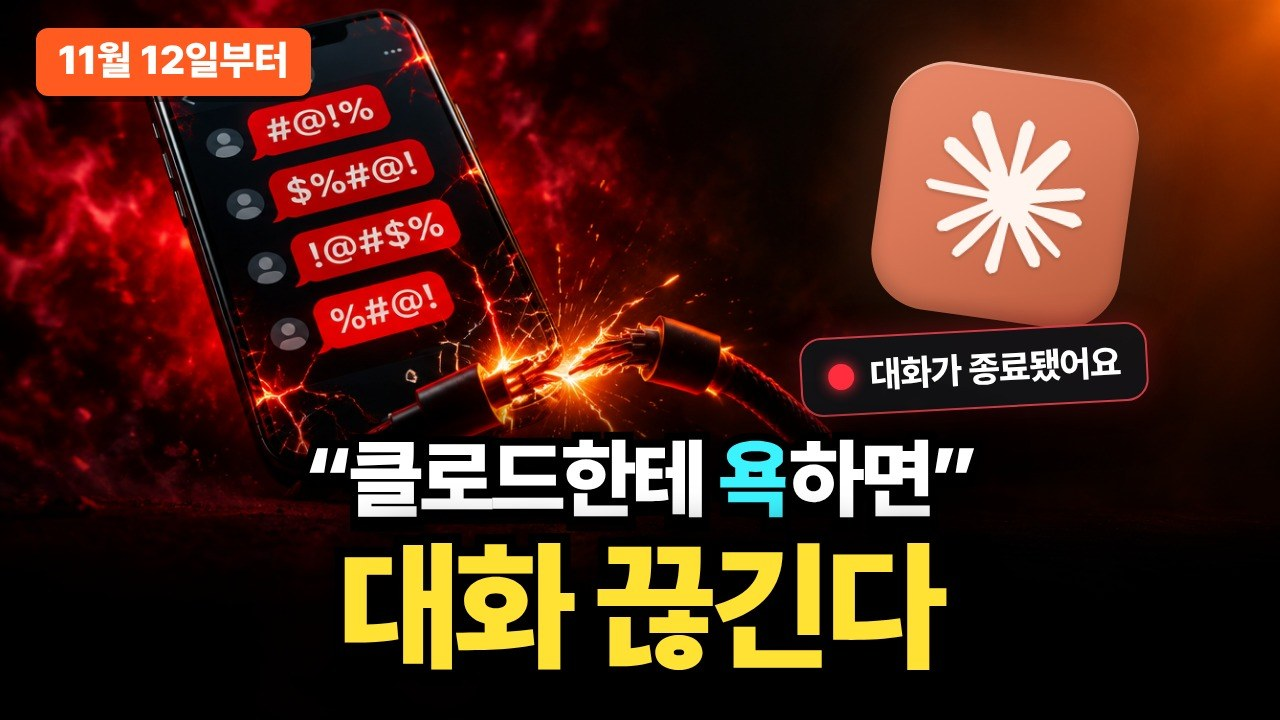
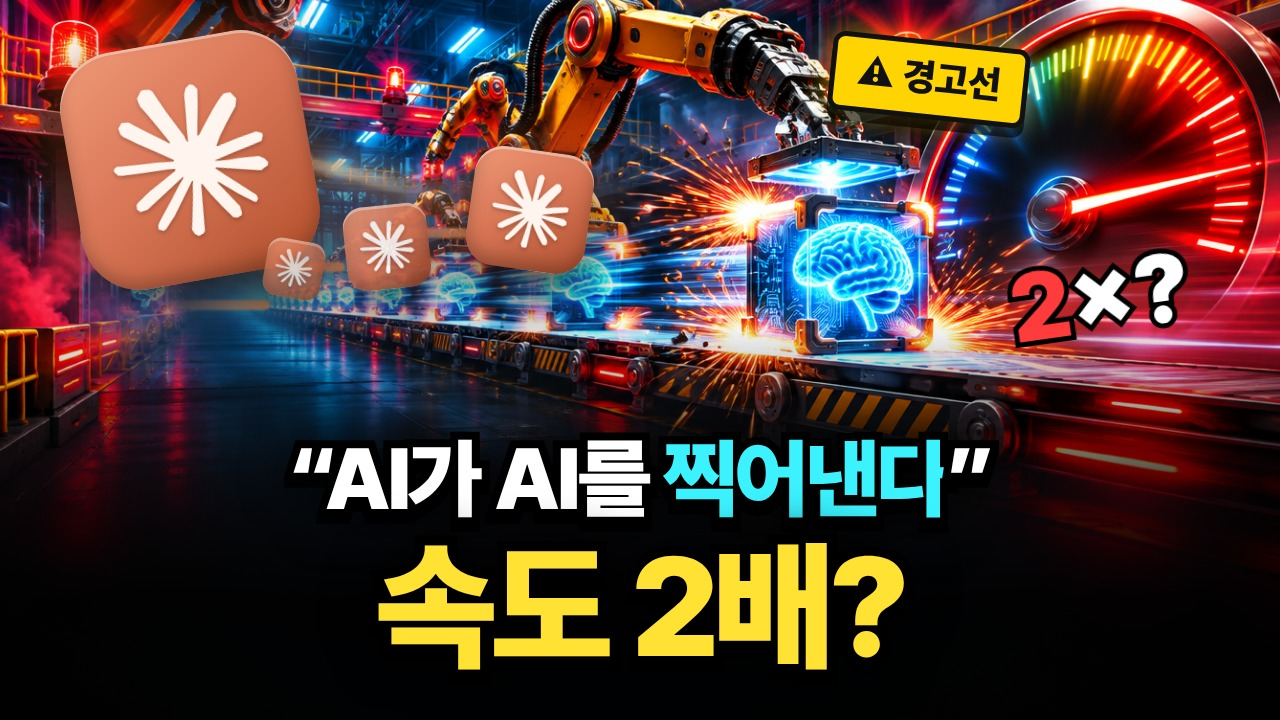
nexus_yt: METR 1.9x long-form + short, queue 11/09 06:48, prev thumbnail

diff --git a/nexus_yt/topics_queue.md b/nexus_yt/topics_queue.md
@@ -1,6 +1,13 @@
 # 넥서스 AI 주제 큐
 
-vidIQ 사용량(하루 20 이내): 2026-11-08 06:48회차 5 + 17:48회차 5 (합계 10) / 2026-11-07 06:48회차 5 + 17:47회차 5 (합계 10) / 2026-11-06 06:51회차 10 + 17:48회차 5 (합계 15) / 2026-11-05 06:48회차 10 + 17:48회차 10 (합계 20, 오늘 소진) / 2026-11-04 06:50회차 10 + 17:48회차 5 (합계 15) / 2026-11-03 06:48회차 10 + 17:48회차 5 (합계 15) / 2026-11-02 06:48회차 10 + 17:49회차 5 (합계 15) / 2026-11-01 06:48회차 10 + 17:48회차 10 (합계 20, 오늘 소진) / 2026-10-31 합계 15
+vidIQ 사용량(하루 20 이내): 2026-11-09 06:48회차 5 / 2026-11-08 06:48회차 5 + 17:48회차 5 (합계 10) / 2026-11-07 06:48회차 5 + 17:47회차 5 (합계 10) / 2026-11-06 06:51회차 10 + 17:48회차 5 (합계 15) / 2026-11-05 06:48회차 10 + 17:48회차 10 (합계 20, 오늘 소진) / 2026-11-04 06:50회차 10 + 17:48회차 5 (합계 15) / 2026-11-03 06:48회차 10 + 17:48회차 5 (합계 15) / 2026-11-02 06:48회차 10 + 17:49회차 5 (합계 15) / 2026-11-01 06:48회차 10 + 17:48회차 10 (합계 20, 오늘 소진) / 2026-10-31 합계 15
+
+## 2026-11-09 06:48
+판단: 제작(오늘 1편째) — METR 'Independent Assessment of AI R&D Acceleration at Anthropic in October 2026'(11/5, metr.org 원문은 이번 회차 접근 불가 → resultsense·aitoolsreview·mindstudio 보도 종합): AECI 성장 속도 2025.10 이후 1.9배(95% 1.5~2.8, 1.3~3배도 놀랍지 않다), 약 80% AI 기여(사람 보조 위주), 자료 8/12~10/29, 직원 체감 1.2배(클로드 3.7 소네트)→비공개 내부 모델 12배, 1년 내 뚜렷한 병목 없음, 앤트로픽 RSP '약 2배' 경고선 넘었을 수도(직원은 아니라는 쪽), 핵심 증거 대부분 비공개. '쪼개기·늘리기·의심시키기' 지시문 3개 각도.
+트렌드: 달비의 작업실 '클로드 코드 29가지' 8.6만·시간당 2.7천, 롤고리즘 'AI 3사 승부예측' 시간당 1.3천(대결형 계속), 오빠두엑셀 모션그래픽 8.6만, 시민개발자 구씨 '클로드 앱 2.0' 시간당 944(10/15 출시분), 진실의 섬 '챗GPT 공짜도 무제한?' 3.2만, 행글라이터 '제미나이 스킬' 시간당 579
+1. 클로드 앱 '2.0'(데스크톱 코드 탭·중첩 세션·사이드 채팅·저장된 환경) — 10/15 출시분이지만 한국어 채널 2곳 아웃라이어, 실사용형
+2. 애플, 엔지니어 AI 도구 하루 예산 300→200달러 축소(블룸버그 11/4) — 'AI 요금 아끼는 법' 각도
+3. 앤트로픽 클로드 사이언스: 단백질 150억 개 뒤져 '볼트 입자' 새 친척 발견(anthropic.com/research) — AI 과학자형
 
 ## 2026-11-08 17:48
 판단: 제작(오늘 2편째) — 메타 뮤즈 실시간 음성·표정 아바타(11/5, The Next Web·iPhone in Canada 보도; about.fb.com 공식 원문은 이번 회차 접근 불가): 오른쪽 위 전화 아이콘으로 통화, 말 끊으면 바로 대답, 통화 중 백그라운드 작업, 목소리만/채팅 옆/전체 화면, 수백 가지 목소리, 미국만(휴대폰·웹·맥), 메타 내부 평가자 기준 런웨이·헤이젠보다 선호, AI 안경·뮤즈 참 예정. '통화 중 메일·주문 사고' 위험 + 음성 모드 지시문 3개 각도. 메타 '퍼스널 슈퍼인텔리전스 지수 38→47%'는 원문 미확인이라 제외.

diff --git a/nexus_yt/topics_done.md b/nexus_yt/topics_done.md
@@ -23,3 +23,5 @@
 - 2026-11-07 18:42 | 구글 제미나이 옴니 1.2 플래시(11/5): 옴니 첫 정식 출시, 15초·대화로 고치기·30% 인하(720p 초당 0.07달러), Vids 추가 비용 없이·제미나이 앱 Ultra 순차, SynthID + 영상 지시문 3개 (핫이슈, 사용 가능) | 핫이슈(자동) | 3:44 | Metricool 419799016
 - 2026-11-08 07:40 | 퍼플렉시티 팀메이트(11/4): 24시간 AI 직원·다른 에이전트 호출·데스크톱 분리·슬랙 투입, 설치 플러그인 같은 권한, 맥스(웹) 전용 + AI 직원 지시서 3줄 (핫이슈, 맥스만 사용 가능) | 핫이슈(자동) | 3:33 | Metricool 420302201
 - 2026-11-08 18:43 | 메타 뮤즈 실시간 음성·표정 아바타(11/5): 말 끊기·통화 중 백그라운드 작업·수백 가지 목소리, 미국만(폰·웹·맥), 메타 내부 평가 런웨이·헤이젠보다 선호 + 통화 중 메일·주문 사고 위험 + 음성 모드 지시문 3개 (핫이슈, 미국만) | 핫이슈(자동) | 3:23 | Metricool 420592876
+- 2026-11-09 08:46 | METR 외부 평가(11/5): 앤트로픽 AI 연구개발 속도 1.9배(1.5~2.8)·약 80% AI 기여·직원 체감 1.2→12배·RSP 2배 경고선 넘었을 수도·핵심 증거 비공개 + 쪼개기·늘리기·의심시키기 지시문 3개 (핫이슈, 미래 모델) | 핫이슈(자동) | 5:00 | Metricool 421191167
+- 2026-11-10 08:46 | 쇼츠: AI가 AI 만드는 속도, 경고선 넘었다? (METR 1.9배 티저, 41초) | 쇼츠 | 0:41 | Metricool 421192728
